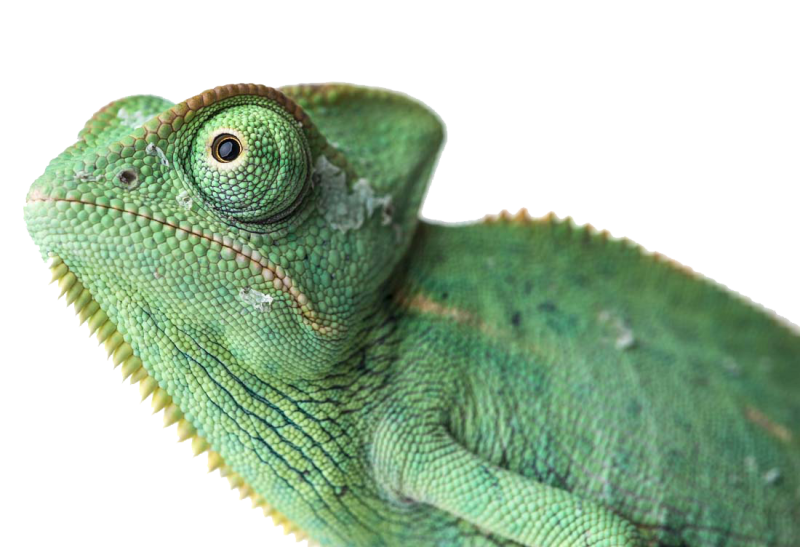
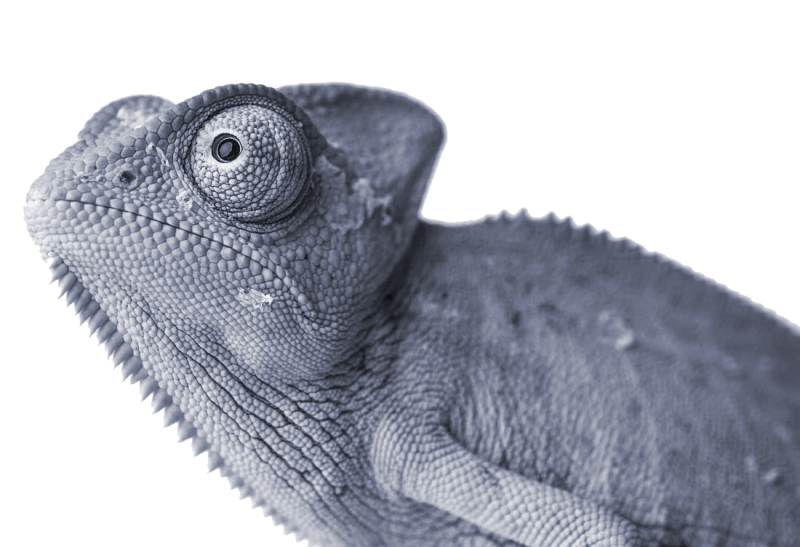
sobre section indigo responsivo finalizado.

diff --git a/css/sobre/indigoSobre.css b/css/sobre/indigoSobre.css
@@ -32,37 +32,74 @@
 .indigo-left p {
   align-self: center;
 }
-.indigo img {
+.indigo picture {
   position: absolute;
-  width: 350px;
-  height: 350px;
+  width: 25%;
+  height: 25%;
   left: 25%;
-  top: 3%;
-}
-/* .indigo .indigo-left {
-  color: #fff;
-  display: grid;
-  grid-template-columns: 2fr 1fr;
-  grid-template-rows: 1fr 1fr;
-} */
-
-/* .indigo .indigo-left p:first-child {
-  font-size: 1.4rem;
-  grid-column: 2;
-  grid-row: 1;
-  align-self: flex-end;
+  top: 20%;
 }
 
-.indigo .indigo-left p:last-child {
-  font-size: 1.2rem;
-  grid-column: 1;
-  grid-row: 2;
-  align-self: center;
-  padding: 80px;
-} */
 .indigo .indigo-right {
-  background: url(../../img/sobre/indigo/chameleonIndigo2.png) no-repeat bottom
+  background: url(../../img/sobre/indigo/chameleonIndigo.png) no-repeat bottom
     left;
   background-size: contain;
   display: start;
+}
+
+@media (max-width: 960px) {
+  .indigo .title-indigo {
+    font-size: 7.5rem;
+  }
+
+  .indigo-right p,
+  .indigo-left p {
+    font-size: 1.25rem;
+  }
+}
+
+@media (max-width: 740px) {
+  .indigo .title-indigo {
+    top: 80px;
+  }
+
+  .indigo picture {
+    width: 30%;
+    height: 25%;
+    left: 15%;
+    top: 45%;
+  }
+
+  .indigo-right p,
+  .indigo-left p {
+    width: 80%;
+    font-size: 1.1rem;
+    margin-bottom: 64px;
+  }
+
+  .indigo-left {
+    display: flex;
+    align-self: flex-end;
+  }
+
+  .indigo-right {
+    display: flex;
+    align-items: center;
+  }
+}
+
+@media (max-width: 450px) {
+  .indigo picture {
+    width: 50%;
+    height: 25%;
+    left: 45%;
+    top: 60%;
+  }
+
+  .indigo-right p,
+  .indigo-left p {
+    width: 70%;
+    font-size: 1rem;
+    margin-bottom: 64px;
+  }
 }

diff --git a/sobre.html b/sobre.html
@@ -171,7 +171,13 @@
           </p>
         </div>
         <p class="title-indigo">anil</p>
-        <img src="img/sobre/indigo/arrow.svg" alt="" />
+        <picture>
+          <source
+            media="(max-width:450px)"
+            srcset="img/sobre/indigo/arrow450.svg"
+          />
+          <img src="img/sobre/indigo/arrow.svg" alt="" />
+        </picture>
       </section>
       <section class="violat"></section>
     </div>
